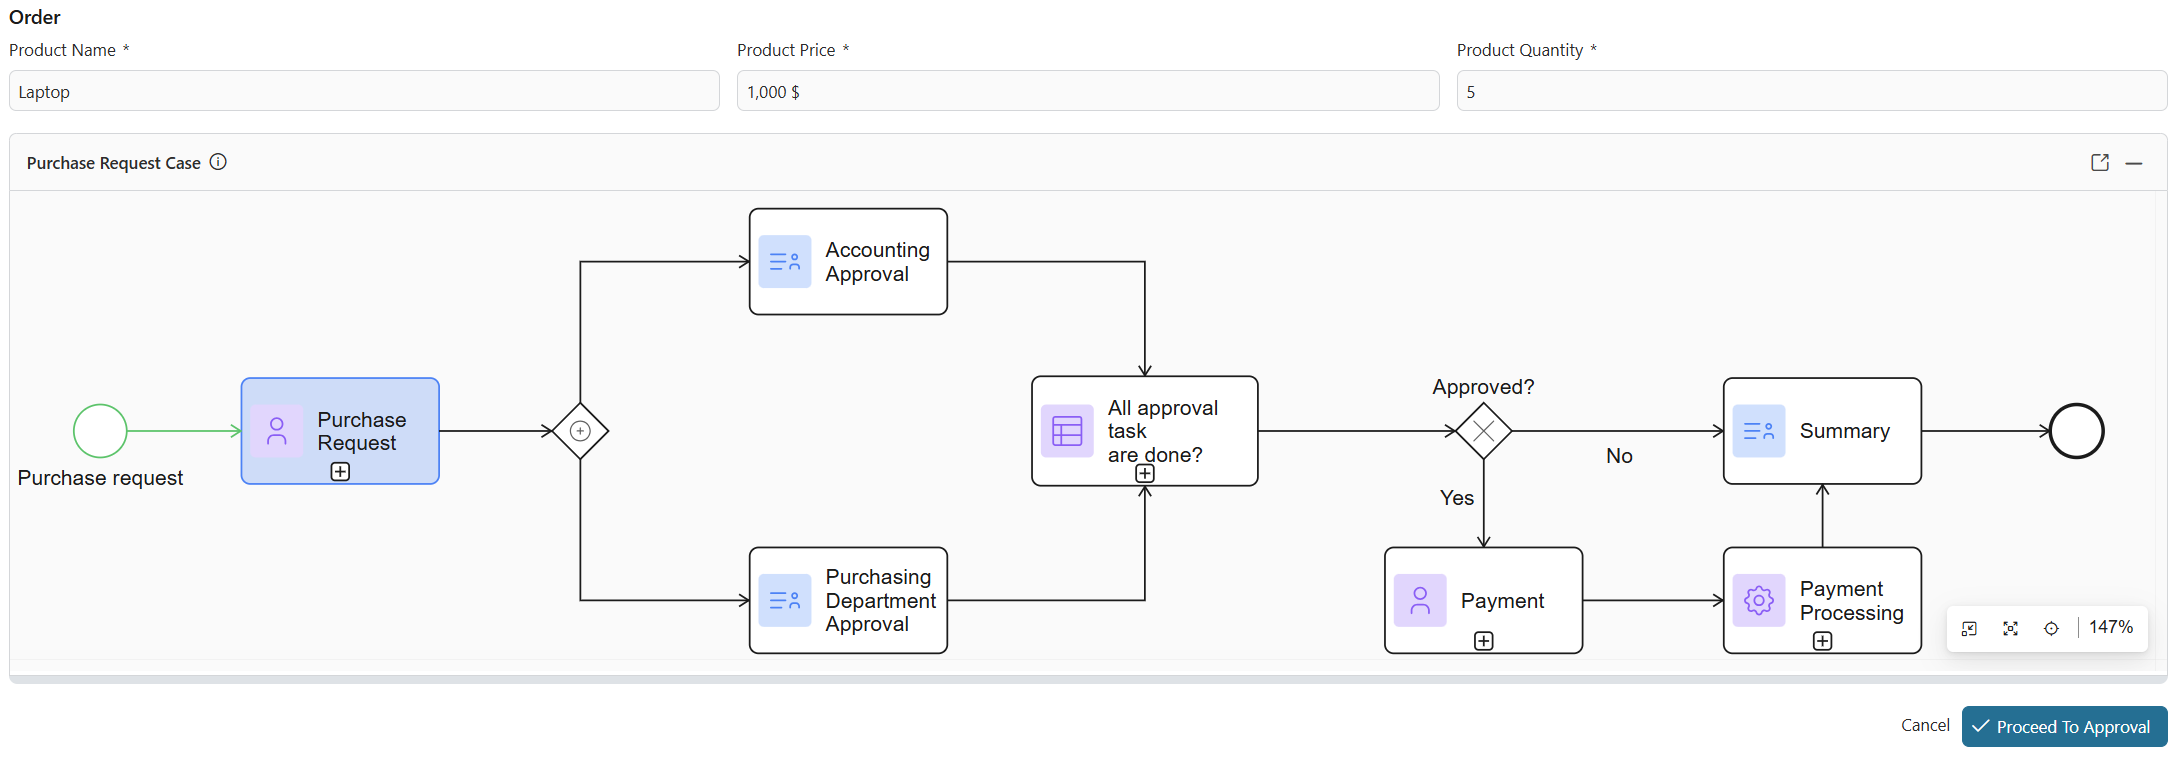
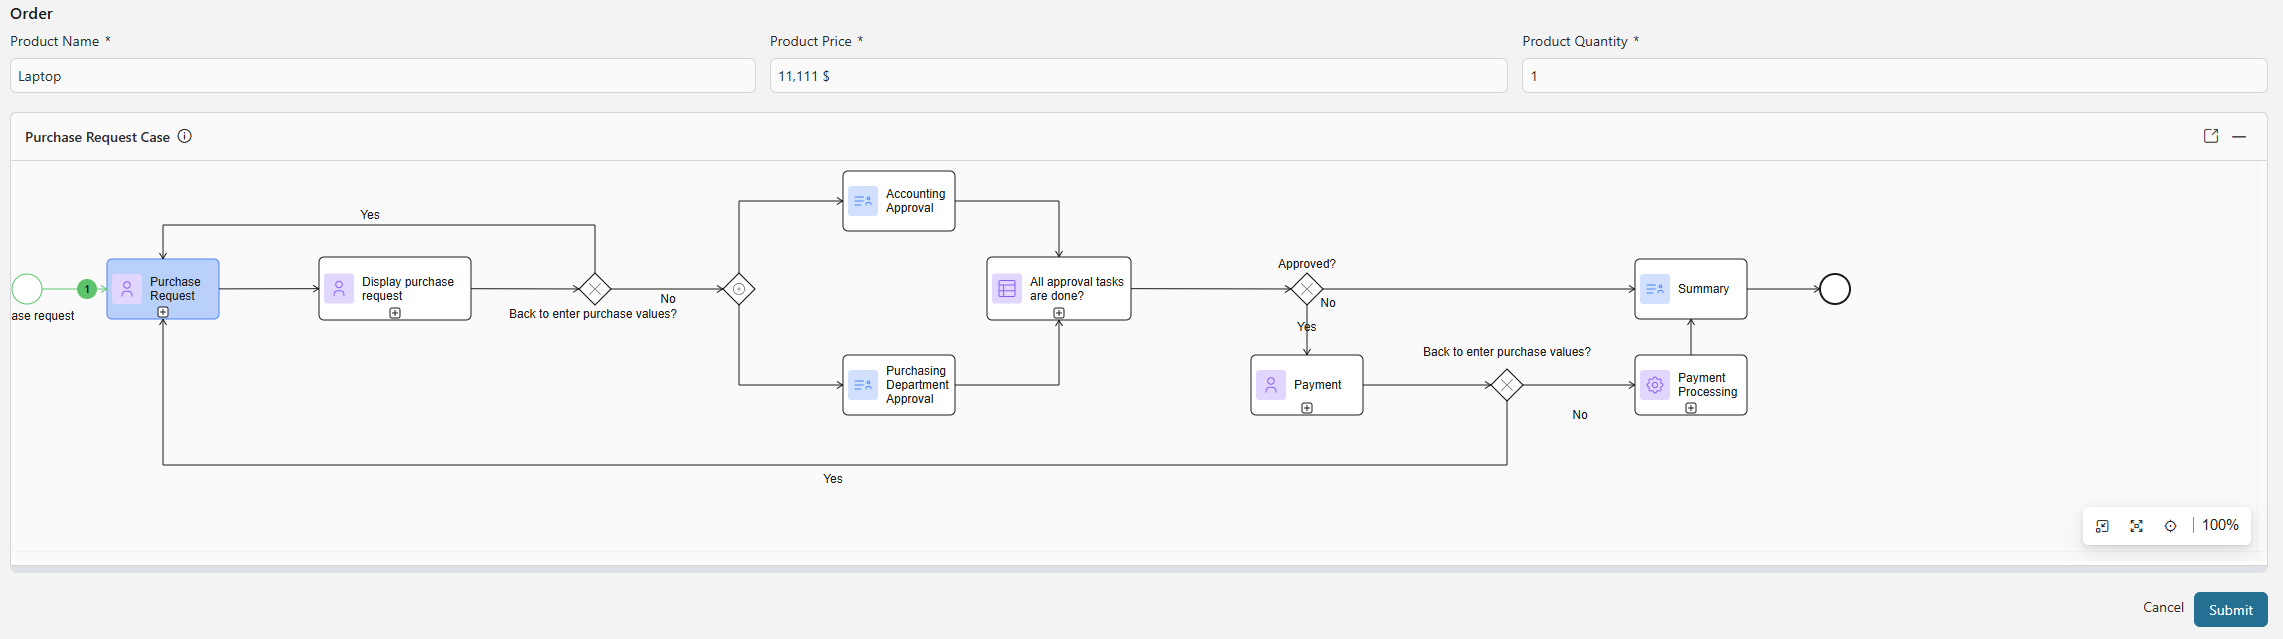
Update readme

diff --git a/case-process-viewer-product/README.md b/case-process-viewer-product/README.md
@@ -16,7 +16,7 @@ Key Features:
 
 - Simple to configure and integrate into existing Ivy user interfaces
 
-![purchase-request-approval](images/purchase-request-approval.png)
+![purchase-request-with-label](images/purchase-request-with-label.png)
 
 ## Demo
 
